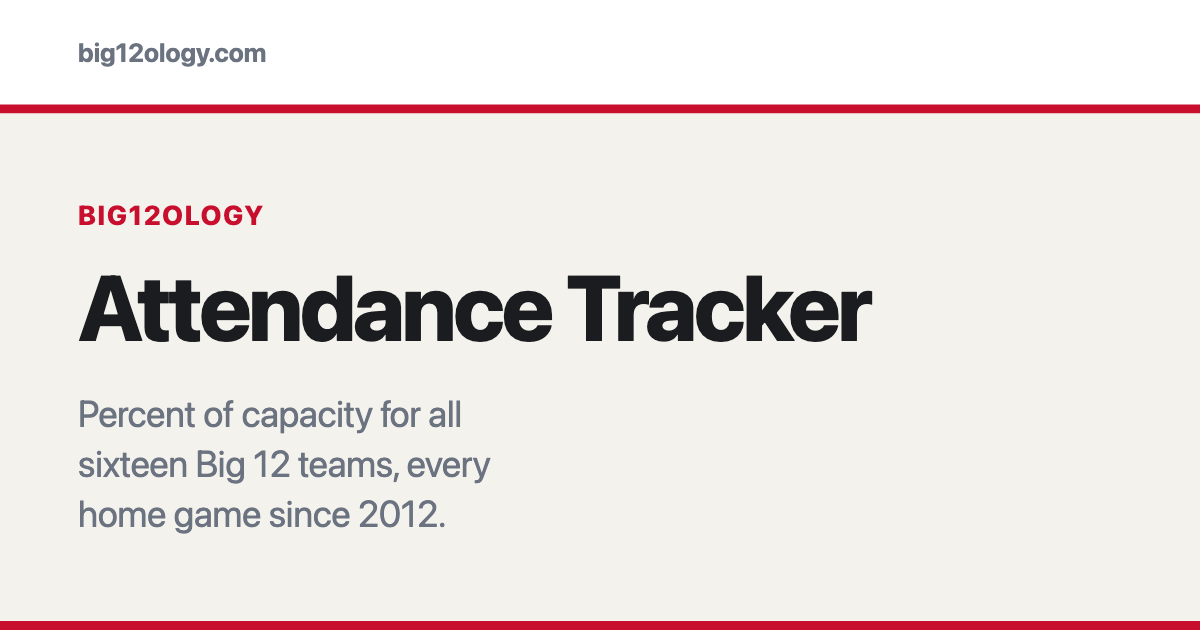
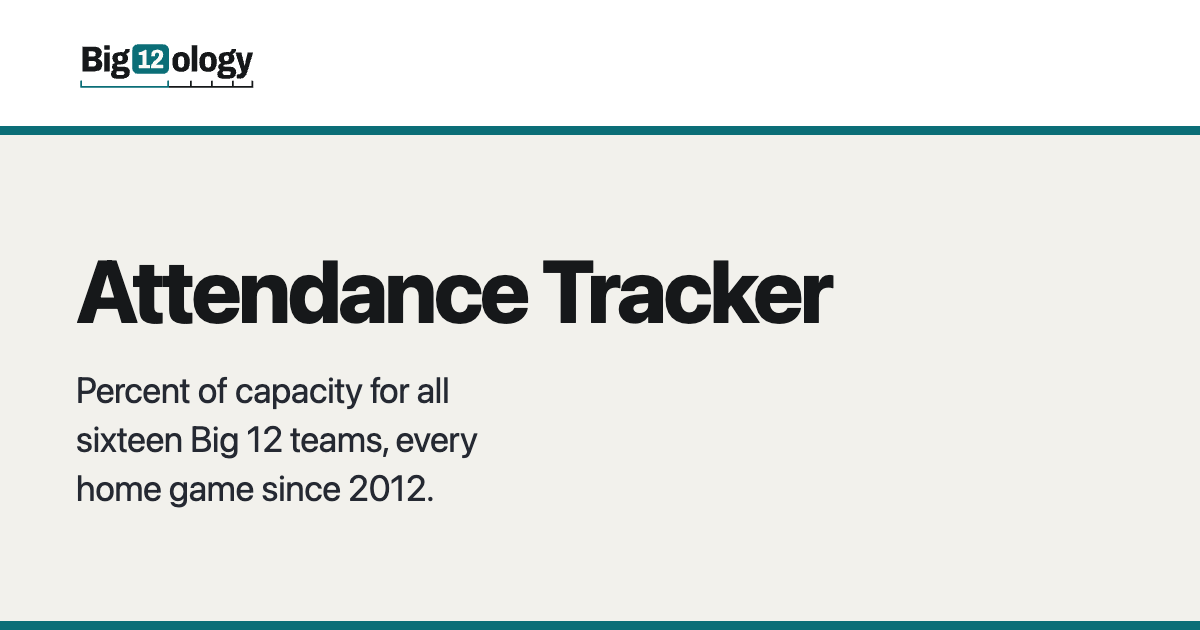
Teal social card and clean contrast in both themes
3,076 text nodes across all four tabs, light and dark, zero failures.

diff --git a/brand/og-source.html b/brand/og-source.html
@@ -1,0 +1,33 @@
+<!doctype html>
+<!-- Source for the 1200x630 social cards. Load with ?t=<title>&d=<desc> and
+     screenshot at exactly 1200x630. Kept in the repo so the cards can be
+     regenerated rather than hand-edited when the brand moves again. -->
+<html lang="en"><head><meta charset="utf-8"><title>card</title>
+<style>
+  *{margin:0;padding:0;box-sizing:border-box}
+  html,body{width:1200px;height:630px}
+  body{font:16px/1.4 -apple-system,BlinkMacSystemFont,"Segoe UI",Roboto,
+       Helvetica,Arial,sans-serif;background:#fff;color:#16181A;
+       display:flex;flex-direction:column}
+  .top{padding:40px 76px 0}
+  .top img{height:52px;width:auto;display:block}
+  .rule{height:9px;background:#0B6E77;margin-top:34px}
+  .body{flex:1;background:#F2F1EC;padding:52px 76px;display:flex;
+        flex-direction:column;justify-content:center}
+  h1{font-size:88px;line-height:1.02;letter-spacing:-3px;font-weight:800;
+     margin-bottom:30px}
+  p{font-size:36px;line-height:1.36;color:#252932;max-width:22ch;
+    letter-spacing:-.4px}
+  .foot{height:9px;background:#0B6E77}
+</style></head>
+<body>
+  <div class="top"><img src="big12ology-primary.svg" alt="Big12ology"></div>
+  <div class="rule"></div>
+  <div class="body"><h1 id="t"></h1><p id="d"></p></div>
+  <div class="foot"></div>
+<script>
+  var q = new URLSearchParams(location.search);
+  document.getElementById("t").textContent = q.get("t") || "Big12ology";
+  document.getElementById("d").textContent = q.get("d") || "";
+</script>
+</body></html>
